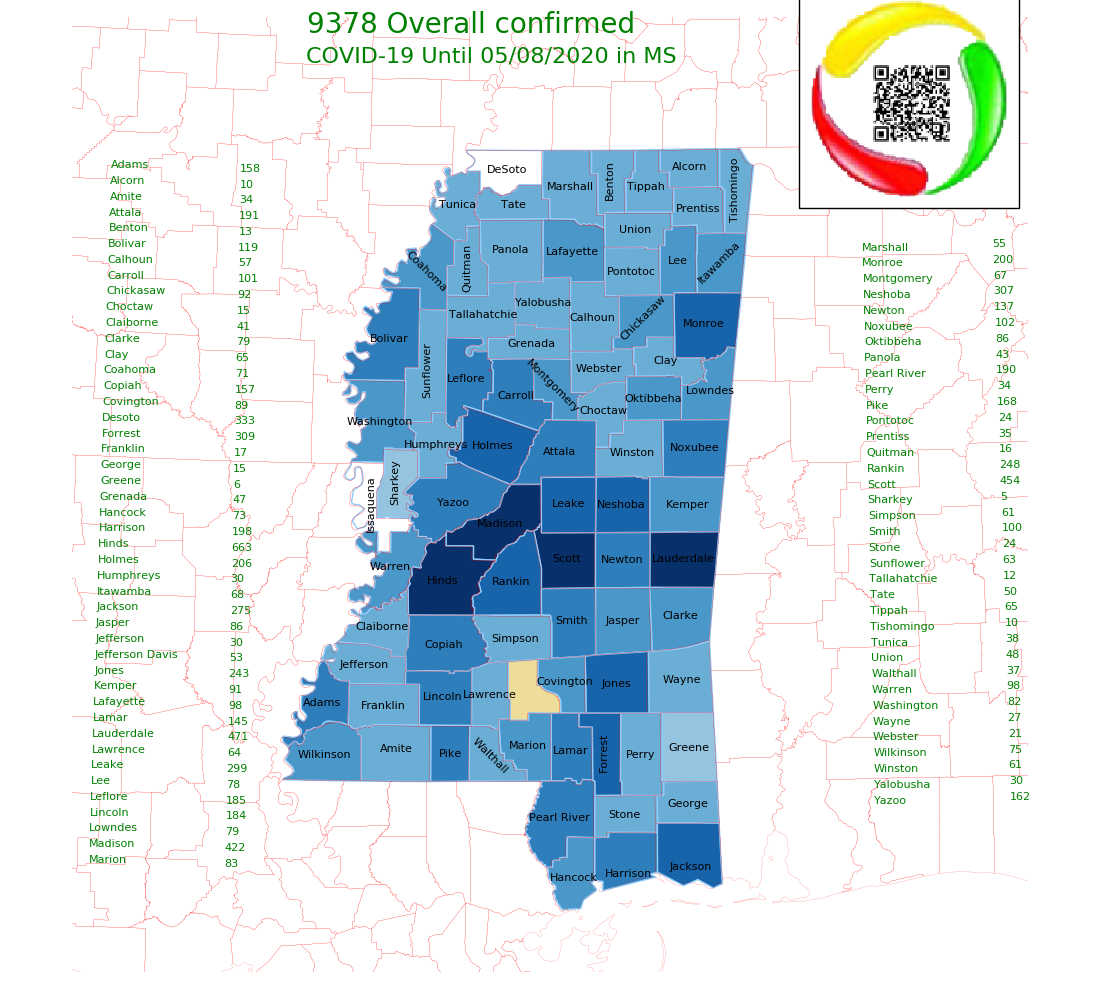
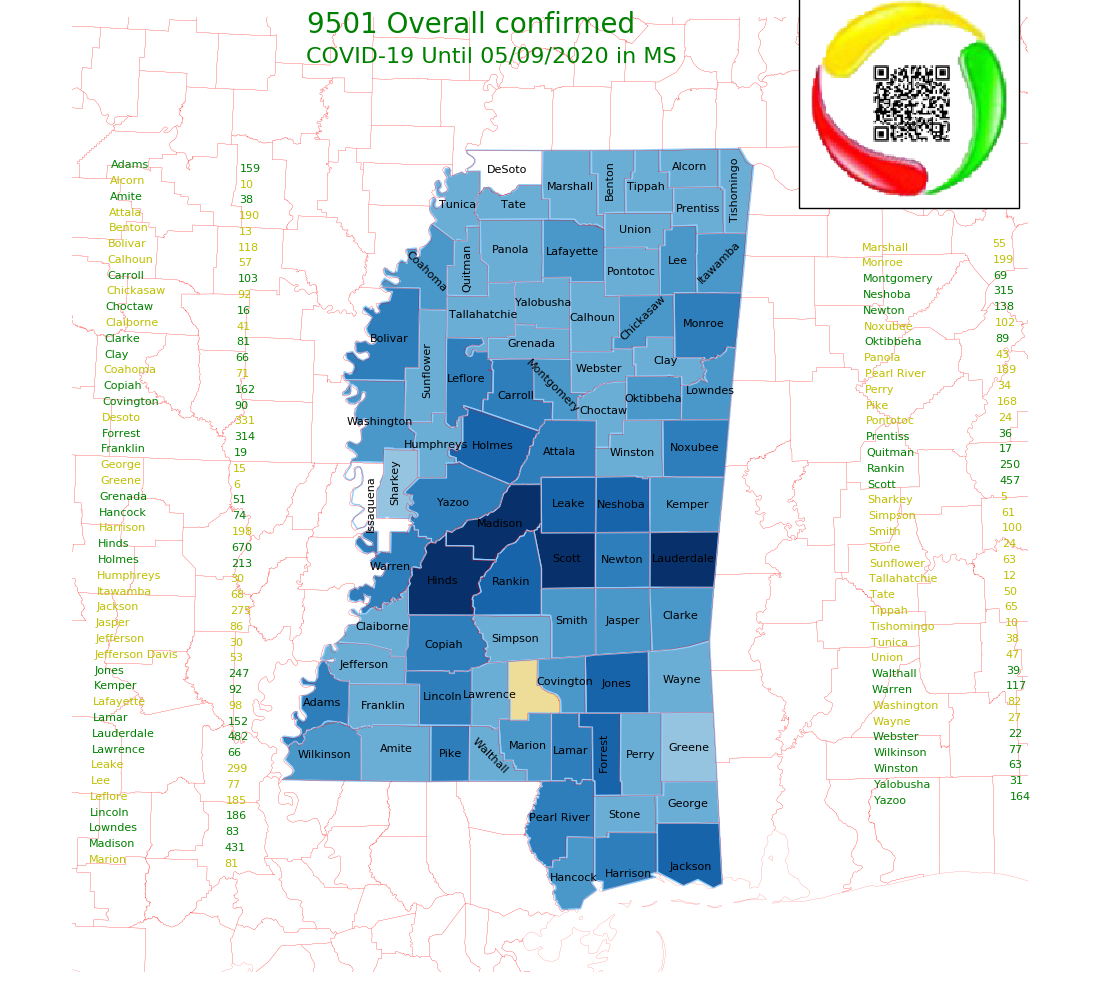
update data in MS

diff --git a/ms/dataGrabMS23.py b/ms/dataGrabMS23.py
@@ -45,7 +45,7 @@ class dataGrabMS(object):
         l_overall.append(['County', 'Cases', 'Deaths'])
         for a_item in l_raw_data:
             # remove ******************************************************
-            a_item[2] = join(a_item[2]).replace('*', '')
+            a_item[2] = str(a_item[2]).replace('*', '')
             #***************************************
             #print(a_item)
             l_overall.append(a_item[:3])

diff --git a/la/ipviz12.py b/la/ipviz12.py
@@ -4,7 +4,12 @@
 #
 #Packet sniffer in python for Linux
 #Sniffs only incoming TCP packet
-
+#Also consider wireshark
+#	https://www.arcgis.com/apps/opsdashboard/index.html#/69b726e2b82e408f89c3a54f96e8f776
+#	ip.dst 	== 	52.85.79.81
+#	ip.dst 	== 	52.84.23.126
+#	protocol TLSv1.2
+#
 import socket, sys
 from struct import *
 
